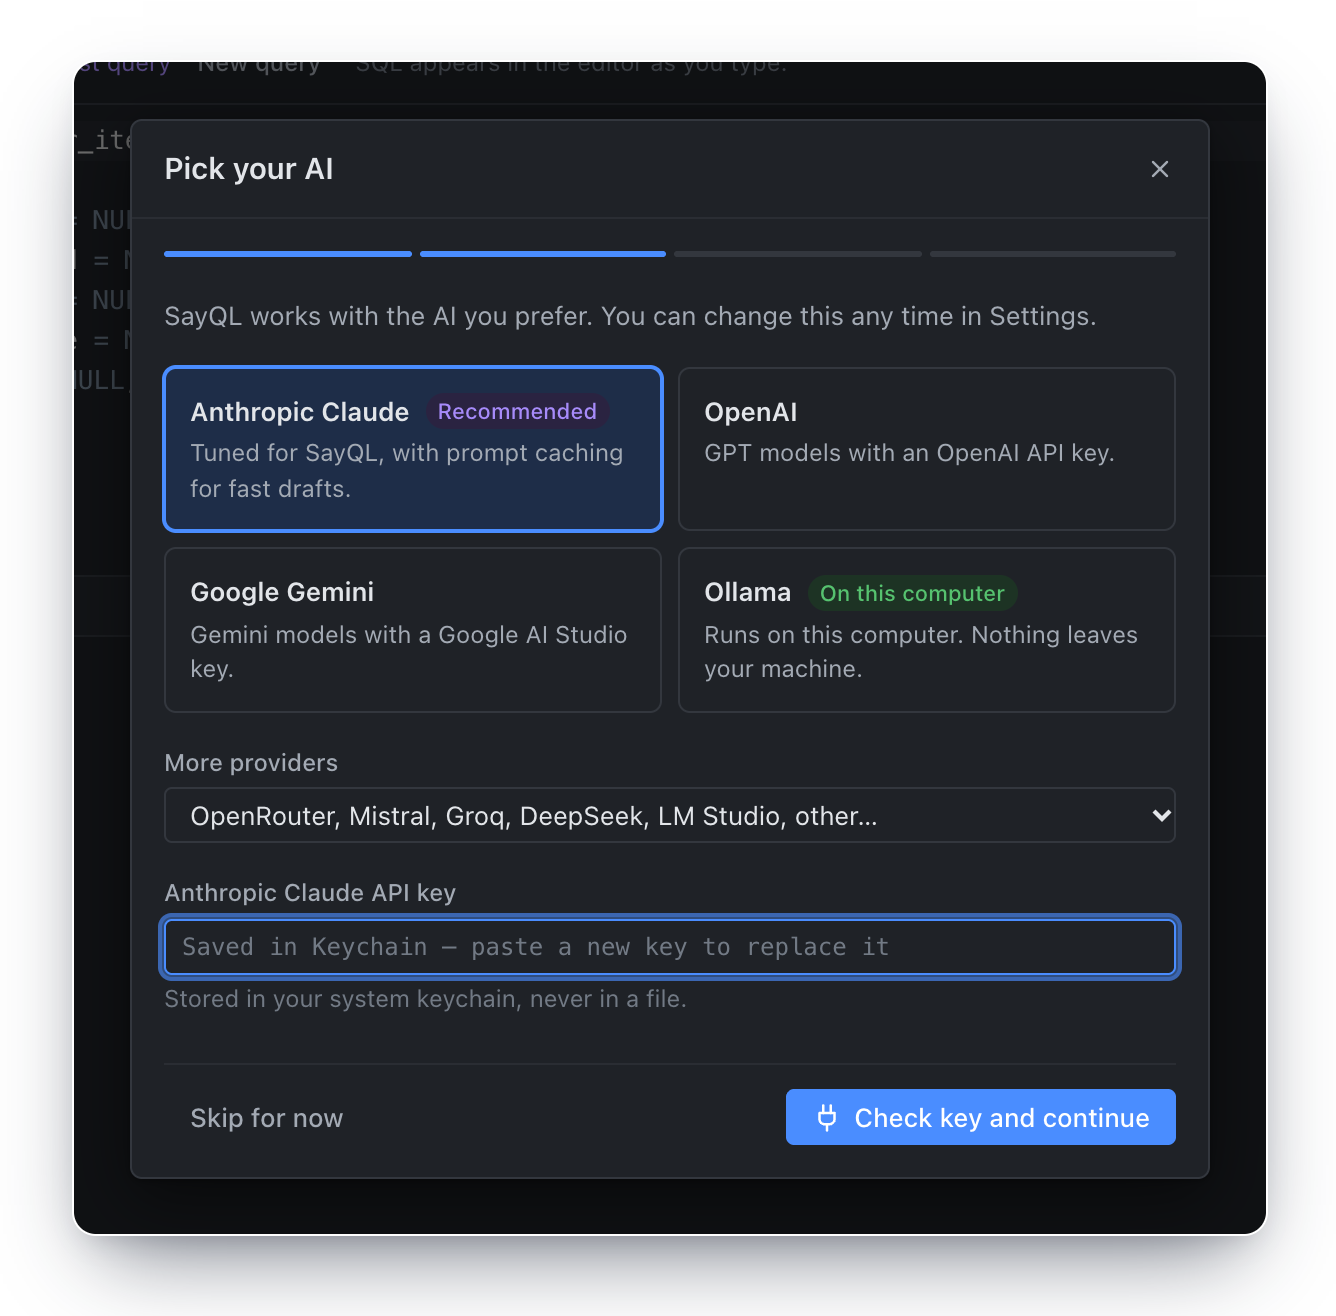
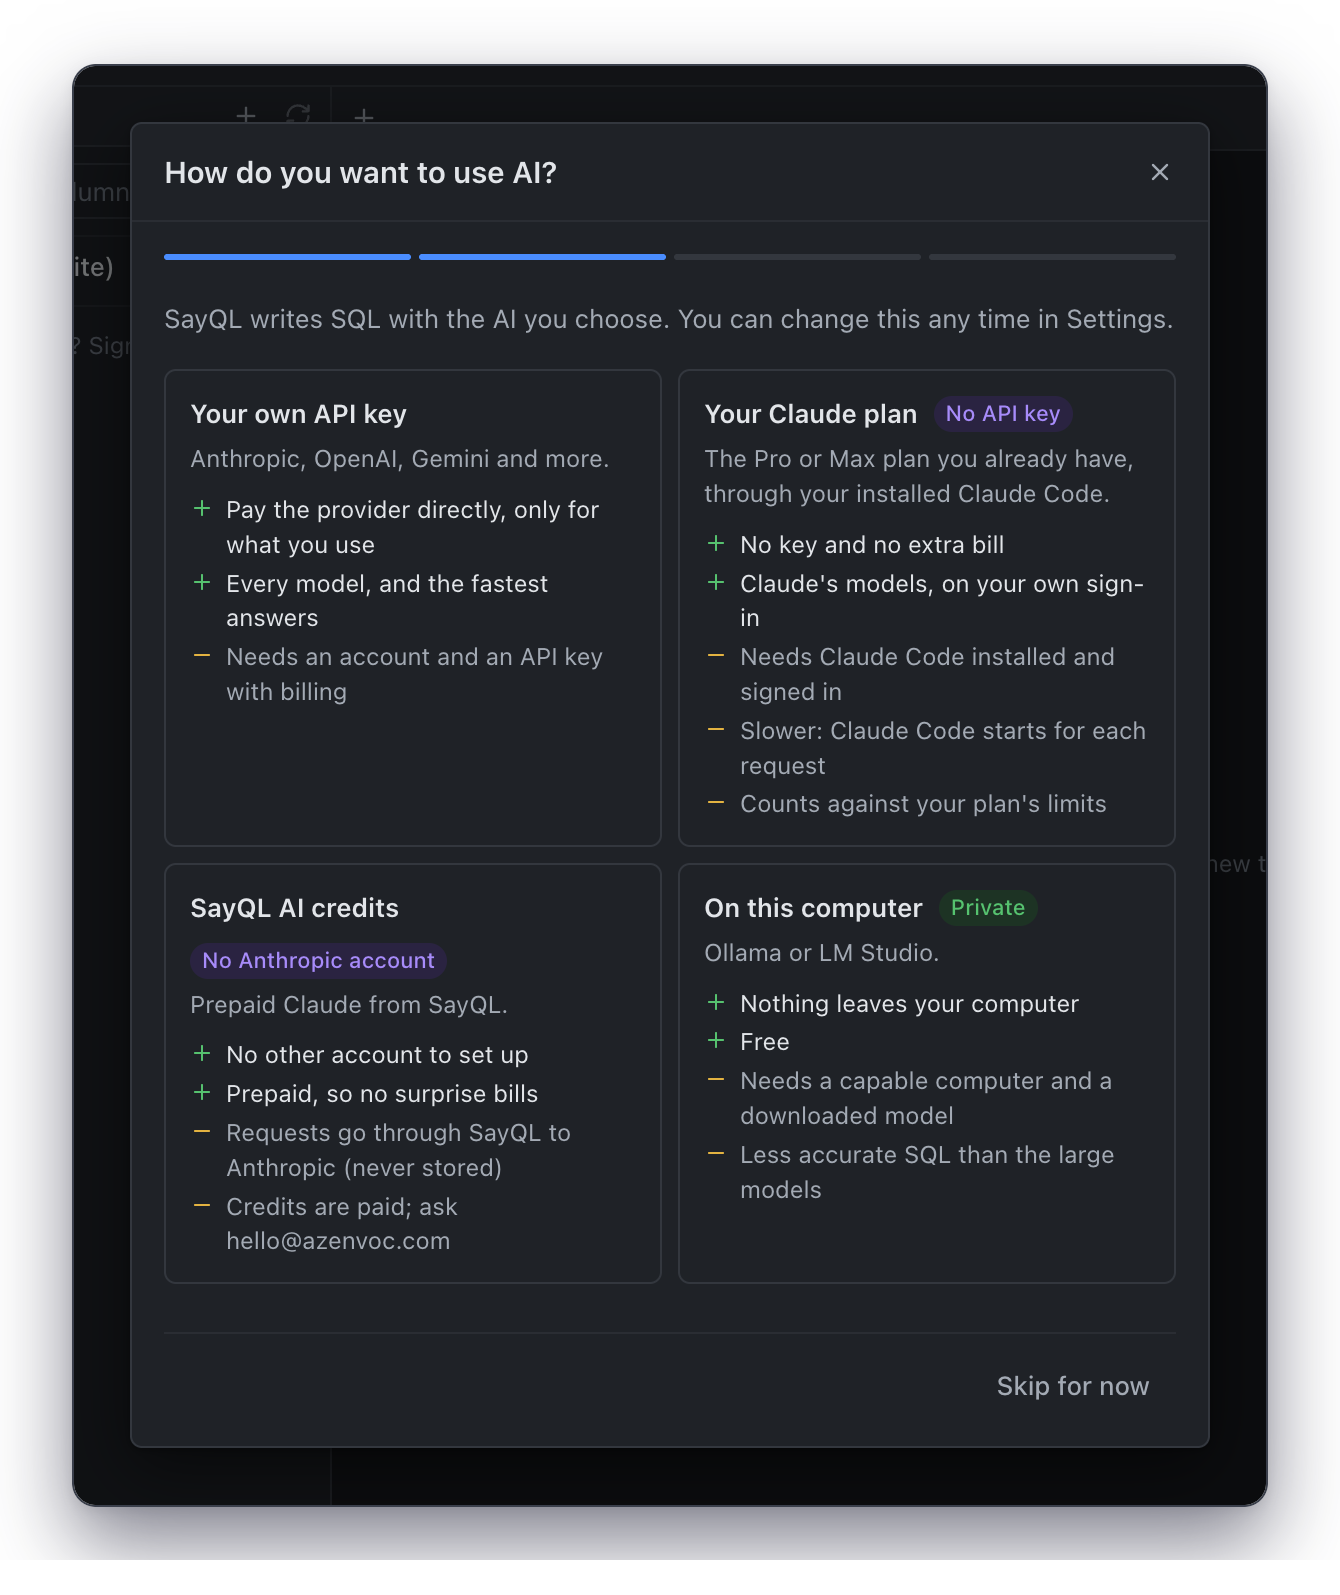
README, landing page and FAQ: Your Claude plan; new setup screenshot
Adds scripts/screenshots/setup-ai.mjs, which takes the README's setup screenshot
from the preview.

diff --git a/site/index.html b/site/index.html
@@ -790,7 +790,7 @@ section.block { padding: 80px 0 0; }
 <script defer src="/_vercel/insights/script.js"></script>
 <script type="application/ld+json">{"@context": "https://schema.org", "@type": "SoftwareApplication", "name": "SayQL", "alternateName": "SayQL Community Edition", "description": "SayQL sits between AI agents and your database: Claude Code, Cursor and others get your schema and the numbers they need, not your rows, unless you say so. Ask in plain English too. Free, open source, read-only by default.", "url": "https://sayql.dev/", "image": "https://sayql.dev/og.png", "applicationCategory": "DeveloperApplication", "operatingSystem": "macOS, Windows, Linux", "downloadUrl": "https://github.com/dithzz/sayql-releases/releases/latest", "license": "https://www.apache.org/licenses/LICENSE-2.0", "isAccessibleForFree": true, "offers": {"@type": "Offer", "price": "0", "priceCurrency": "USD"}, "author": {"@type": "Person", "name": "Adith L S", "url": "https://github.com/dithzz"}, "sameAs": ["https://github.com/dithzz/sayql"]}</script>
 <script type="application/ld+json">{"@context": "https://schema.org", "@type": "WebSite", "name": "SayQL", "url": "https://sayql.dev/"}</script>
-<!-- faq-jsonld --><script type="application/ld+json">{"@context": "https://schema.org", "@type": "FAQPage", "mainEntity": [{"@type": "Question", "name": "What is SayQL?", "acceptedAnswer": {"@type": "Answer", "text": "A free, open-source desktop app that lets you and your AI apps query databases in plain English (text-to-SQL) without handing your data to the AI: it sees your schema, not your rows, unless you choose. It works with PostgreSQL, MySQL, SQLite and SQL Server and the AI you pick, including one that runs on your computer, and runs queries read-only. SayQL for teams adds a server you run, with rules for the AI and a record of every query."}}, {"@type": "Question", "name": "Do I need to know SQL?", "acceptedAnswer": {"@type": "Answer", "text": "No. The SQL is always in front of you, so you’ll pick it up along the way."}}, {"@type": "Question", "name": "What does the AI see?", "acceptedAnswer": {"@type": "Answer", "text": "Your question and your table and column names. When a query fails, the SQL and the error, with any values in it masked. Never the rows in your tables, unless you allow it per connection, for agent mode or for AI apps over MCP, and then only what you allow. With Ollama or LM Studio, nothing leaves your computer."}}, {"@type": "Question", "name": "Can it break my database?", "acceptedAnswer": {"@type": "Answer", "text": "Queries run read-only, and the database enforces it too. An UPDATE or DELETE always stops for your confirmation first."}}, {"@type": "Question", "name": "How do we govern our AI agents with SayQL?", "acceptedAnswer": {"@type": "Answer", "text": "With SayQL for teams, add each agent on your server's admin page: a name, the databases it may use and what it gets back from a query (counts and summaries by default, no row values). It connects over MCP with its own key, read-only; columns marked never send are withheld on the server, and every query it runs or tries is in the audit log under its name. Revoke the key and it stops at once. On your own computer, without a team server, Claude Code, Cursor and other MCP apps can also query through the SayQL app, under the limits you set per connection."}}, {"@type": "Question", "name": "What does it cost?", "acceptedAnswer": {"@type": "Answer", "text": "SayQL is free. You pay your AI provider for what you use, with your own key, or nothing with a local model. SayQL for teams, a server your company runs for shared connections and an audit log, is free for 30 days, then $149 a month for up to 10 people."}}, {"@type": "Question", "name": "Can I use SayQL without an AI key?", "acceptedAnswer": {"@type": "Answer", "text": "Yes. Run a model on your computer with Ollama or LM Studio, at no cost, or use SayQL AI credits: prepaid Claude from SayQL, with no Anthropic account. With credits, your question and table names go through SayQL to Anthropic, and SayQL keeps only token counts."}}, {"@type": "Question", "name": "Where does my data go with SayQL for teams?", "acceptedAnswer": {"@type": "Answer", "text": "Nowhere near us. The server runs on your machines: passwords, queries and the audit log stay there, and the licence is checked offline. The one exception is SayQL AI credits, if your admin chooses them: AI requests then pass through SayQL on their way to Anthropic, and only token counts are kept."}}, {"@type": "Question", "name": "What happens when the trial ends?", "acceptedAnswer": {"@type": "Answer", "text": "Queries on team connections pause until an admin pastes a licence key on the admin page. Nothing is deleted, and everyone’s own SayQL keeps working as before."}}, {"@type": "Question", "name": "Why does my computer warn me on first launch?", "acceptedAnswer": {"@type": "Answer", "text": "Early-access builds aren’t code-signed with Apple or Microsoft yet. Confirm the first launch once and it opens normally after that. Updates are signed with SayQL’s own key."}}]}</script><!-- /faq-jsonld -->
+<!-- faq-jsonld --><script type="application/ld+json">{"@context": "https://schema.org", "@type": "FAQPage", "mainEntity": [{"@type": "Question", "name": "What is SayQL?", "acceptedAnswer": {"@type": "Answer", "text": "A free, open-source desktop app that lets you and your AI apps query databases in plain English (text-to-SQL) without handing your data to the AI: it sees your schema, not your rows, unless you choose. It works with PostgreSQL, MySQL, SQLite and SQL Server and the AI you pick, including one that runs on your computer, and runs queries read-only. SayQL for teams adds a server you run, with rules for the AI and a record of every query."}}, {"@type": "Question", "name": "Do I need to know SQL?", "acceptedAnswer": {"@type": "Answer", "text": "No. The SQL is always in front of you, so you’ll pick it up along the way."}}, {"@type": "Question", "name": "What does the AI see?", "acceptedAnswer": {"@type": "Answer", "text": "Your question and your table and column names. When a query fails, the SQL and the error, with any values in it masked. Never the rows in your tables, unless you allow it per connection, for agent mode or for AI apps over MCP, and then only what you allow. With Ollama or LM Studio, nothing leaves your computer."}}, {"@type": "Question", "name": "Can it break my database?", "acceptedAnswer": {"@type": "Answer", "text": "Queries run read-only, and the database enforces it too. An UPDATE or DELETE always stops for your confirmation first."}}, {"@type": "Question", "name": "How do we govern our AI agents with SayQL?", "acceptedAnswer": {"@type": "Answer", "text": "With SayQL for teams, add each agent on your server's admin page: a name, the databases it may use and what it gets back from a query (counts and summaries by default, no row values). It connects over MCP with its own key, read-only; columns marked never send are withheld on the server, and every query it runs or tries is in the audit log under its name. Revoke the key and it stops at once. On your own computer, without a team server, Claude Code, Cursor and other MCP apps can also query through the SayQL app, under the limits you set per connection."}}, {"@type": "Question", "name": "What does it cost?", "acceptedAnswer": {"@type": "Answer", "text": "SayQL is free. You pay your AI provider for what you use with your own key, use the Claude Pro or Max plan you already have, or pay nothing with a local model. SayQL for teams, a server your company runs for shared connections and an audit log, is free for 30 days, then $149 a month for up to 10 people."}}, {"@type": "Question", "name": "Can I use SayQL without an AI key?", "acceptedAnswer": {"@type": "Answer", "text": "Yes. Use the Claude Pro or Max plan you already have, through your installed Claude Code; run a model on your computer with Ollama or LM Studio, at no cost; or use SayQL AI credits: prepaid Claude from SayQL, with no Anthropic account. With credits, your question and table names go through SayQL to Anthropic, and SayQL keeps only token counts."}}, {"@type": "Question", "name": "Where does my data go with SayQL for teams?", "acceptedAnswer": {"@type": "Answer", "text": "Nowhere near us. The server runs on your machines: passwords, queries and the audit log stay there, and the licence is checked offline. The one exception is SayQL AI credits, if your admin chooses them: AI requests then pass through SayQL on their way to Anthropic, and only token counts are kept."}}, {"@type": "Question", "name": "What happens when the trial ends?", "acceptedAnswer": {"@type": "Answer", "text": "Queries on team connections pause until an admin pastes a licence key on the admin page. Nothing is deleted, and everyone’s own SayQL keeps working as before."}}, {"@type": "Question", "name": "Why does my computer warn me on first launch?", "acceptedAnswer": {"@type": "Answer", "text": "Early-access builds aren’t code-signed with Apple or Microsoft yet. Confirm the first launch once and it opens normally after that. Updates are signed with SayQL’s own key."}}]}</script><!-- /faq-jsonld -->
 </head>
 <body>
 <svg width="0" height="0" style="position:absolute" aria-hidden="true">
@@ -1052,12 +1052,12 @@ section.block { padding: 80px 0 0; }
       <article class="feature-row">
         <div class="feature-text">
           <h3>Any AI, or a local one</h3>
-          <p>Bring your own key for Claude or OpenAI, run a model on your computer with Ollama or LM Studio, or use SayQL AI credits.</p>
+          <p>Bring your own key for Claude or OpenAI, use the Claude Pro or Max plan you already have, run a model on your computer with Ollama or LM Studio, or use SayQL AI credits.</p>
         </div>
         <div class="app mini" id="demo-ai" role="img" aria-label="Demo: choosing an AI provider in SayQL">
           <div class="providers">
             <div class="prov" data-p><b>Anthropic Claude <span class="badge rec">Recommended</span></b><span>Tuned for SayQL.</span></div>
-            <div class="prov" data-p><b>OpenAI</b><span>GPT models with your key.</span></div>
+            <div class="prov" data-p><b>Your Claude plan <span class="badge rec">No API key</span></b><span>Your Pro or Max plan, through Claude Code.</span></div>
             <div class="prov" data-p><b>SayQL AI credits</b><span>Prepaid Claude, no account.</span></div>
             <div class="prov" data-p><b>Ollama <span class="badge local">On this computer</span></b><span>Nothing leaves your machine.</span></div>
           </div>
@@ -1213,7 +1213,7 @@ section.block { padding: 80px 0 0; }
         <ul>
           <li><svg class="icon"><use href="#i-check"/></svg>Everything one person needs, at work too</li>
           <li><svg class="icon"><use href="#i-check"/></svg>Ask box, agent mode, skills, MCP and voice</li>
-          <li><svg class="icon"><use href="#i-check"/></svg>Your own AI key, a local model, or SayQL AI credits</li>
+          <li><svg class="icon"><use href="#i-check"/></svg>Your own AI key, your Claude plan, a local model, or SayQL AI credits</li>
           <li><svg class="icon"><use href="#i-check"/></svg>Open source, Apache 2.0</li>
         </ul>
         <div class="actions"><a class="btn btn-lg" href="#download">Download</a></div>
@@ -1268,11 +1268,11 @@ section.block { padding: 80px 0 0; }
       </details>
       <details>
         <summary>What does it cost?<svg class="icon"><use href="#i-plus"/></svg></summary>
-        <p>SayQL is free. You pay your AI provider for what you use, with your own key, or nothing with a local model. SayQL for teams, a server your company runs for shared connections and an audit log, is free for 30 days, then $149 a month for up to 10 people.</p>
+        <p>SayQL is free. You pay your AI provider for what you use with your own key, use the Claude Pro or Max plan you already have, or pay nothing with a local model. SayQL for teams, a server your company runs for shared connections and an audit log, is free for 30 days, then $149 a month for up to 10 people.</p>
       </details>
       <details>
         <summary>Can I use SayQL without an AI key?<svg class="icon"><use href="#i-plus"/></svg></summary>
-        <p>Yes. Run a model on your computer with Ollama or LM Studio, at no cost, or use SayQL AI credits: prepaid Claude from SayQL, with no Anthropic account. With credits, your question and table names go through SayQL to Anthropic, and SayQL keeps only token counts.</p>
+        <p>Yes. Use the Claude Pro or Max plan you already have, through your installed Claude Code; run a model on your computer with Ollama or LM Studio, at no cost; or use SayQL AI credits: prepaid Claude from SayQL, with no Anthropic account. With credits, your question and table names go through SayQL to Anthropic, and SayQL keeps only token counts.</p>
       </details>
       <details>
         <summary>Where does my data go with SayQL for teams?<svg class="icon"><use href="#i-plus"/></svg></summary>
@@ -1696,7 +1696,7 @@ section.block { padding: 80px 0 0; }
     var KEYCHAIN = "Stored in your system keychain.";
     var STATES = [
       ["Anthropic Claude API key", "Saved in Keychain", KEYCHAIN],
-      ["OpenAI API key", "Saved in Keychain", KEYCHAIN],
+      ["Claude Code", "Signed in with your Claude Max plan", "No key. Counts against your plan's limits."],
       ["Credit key", "Saved in Keychain", "Prepaid. Goes via SayQL to Anthropic."],
       ["Ollama address", "http://localhost:11434", "No key. Nothing leaves your machine."]
     ];

diff --git a/site/api/ai/v1/messages.js b/site/api/ai/v1/messages.js
@@ -7,7 +7,7 @@
 //   3. is charged what Anthropic reported using, plus the margin, and the hold is returned.
 // Prompts and answers pass through and are never stored: the ledger keeps the model and token counts.
 //
-// Claude Code uses it too ("Audit with Claude Code" in the SayQL app, paying with credits):
+// Claude Code can use it too (SayQL 0.4.7's audit paid with credits; off since 0.4.8):
 // ANTHROPIC_BASE_URL=https://sayql.dev/api/ai and the credit key in ANTHROPIC_AUTH_TOKEN. It posts
 // to /v1/messages?beta=true with an `anthropic-beta` header whose values pair with body fields
 // (context_management, output_config, ...), so that header is forwarded as sent: Claude Code's

diff --git a/README.md b/README.md
@@ -45,8 +45,9 @@ safely; and an AI agent with a database password can do anything. SayQL keeps th
 - **Answers to the harder questions.** Switch the Ask box from Quick to Agent and ask "why did signups drop?"
   or "who owns this tenant?": the agent investigates in read-only steps and answers with the queries behind
   every sentence. Off until you turn it on per connection, with you in control of what the AI may see.
-- **Any AI, any database.** Use Claude, OpenAI, Gemini or any OpenAI-compatible API with your own key, a local
-  model so nothing leaves your computer, or SayQL AI credits, on PostgreSQL, MySQL, SQLite or SQL Server. Switch
+- **Any AI, any database.** Use Claude, OpenAI, Gemini or any OpenAI-compatible API with your own key, the Claude
+  Pro or Max plan you already have (through your installed Claude Code), a local model so nothing leaves your
+  computer, or SayQL AI credits, on PostgreSQL, MySQL, SQLite or SQL Server. Switch
   models right in the Ask box. The Ask box never sends table rows to the AI.
 - **Agents without your data.** Claude Code, Cursor and other MCP apps query through SayQL, read-only. By default
   they get counts and summaries, not rows; you choose per connection, and never-send columns always stay private.
@@ -112,14 +113,16 @@ which help the Ask box, the agent and MCP next time.
 
 ### Your AI, your data
 
-Use Claude, OpenAI, Gemini or any OpenAI-compatible API with your own key, or run a model on your own computer
-with Ollama or LM Studio, so your questions never leave it. The Ask box never sends table rows to the AI; agent
+Use Claude, OpenAI, Gemini or any OpenAI-compatible API with your own key, use the Claude Pro or Max plan you
+already have through your installed Claude Code (no key), or run a model on your own computer with Ollama or
+LM Studio, so your questions never leave it. The setup asks how you want to use AI and lists the pros and cons
+of each. The Ask box never sends table rows to the AI; agent
 mode can, only on connections where you turn it on. A setup guide
 gets you to your first answer quickly.
 
 <picture>
   <source media="(prefers-color-scheme: dark)" srcset=".github/assets/feature-setup-ai-dark.png">
-  <img src=".github/assets/feature-setup-ai-light.png" alt="The setup guide's Pick your AI step with Claude, OpenAI, Gemini and Ollama" width="100%">
+  <img src=".github/assets/feature-setup-ai-light.png" alt="The setup guide's How do you want to use AI step: your own API key, your Claude plan, SayQL AI credits or on this computer, each with pros and cons" width="100%">
 </picture>
 
 </td>
@@ -130,7 +133,7 @@ gets you to your first answer quickly.
 
 | Databases | AI providers |
 | --- | --- |
-| PostgreSQL | Anthropic Claude (recommended) |
+| PostgreSQL | Anthropic Claude (recommended) · your Claude plan, through Claude Code |
 | MySQL / MariaDB | OpenAI · Google Gemini · OpenRouter |
 | SQLite | Mistral · Groq · DeepSeek |
 | Microsoft SQL Server | Ollama · LM Studio (on your computer) |
